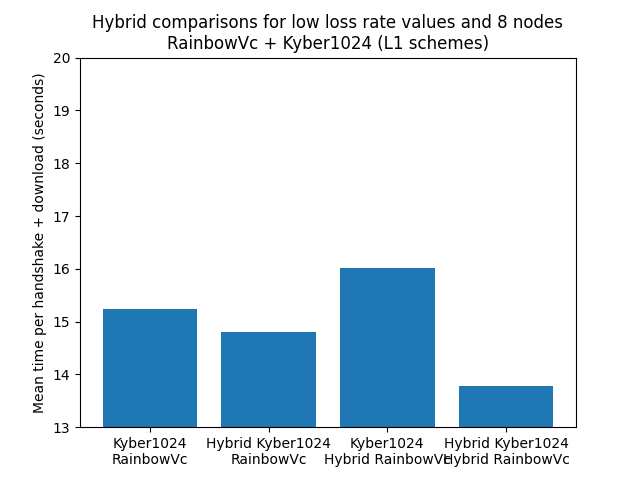
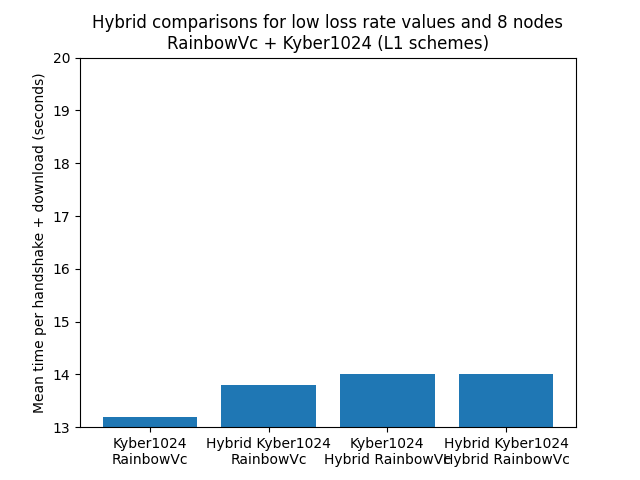
01/01 - new exploitations

diff --git a/computing_results.py b/computing_results.py
@@ -74,6 +74,7 @@ public_key_sizes = {  # In bytes
     "rainbowVc": 1705536
 }
 
+
 # Functions
 
 
@@ -140,6 +141,9 @@ def get_rtt_max_loss(data, nodes):
     return get_rtt(res), max_loss
 
 # Loss variations for L1
+
+
+rsa_dsa = get_experiments(make_filename("RSA", "DSA", new=True))
 
 
 def loss_graph(nodes, data, legend):
@@ -279,7 +283,7 @@ HrainVc_Hkyber1024 = get_experiments(make_filename("rainbowVc", "kyber1024", new
 
 hybrid_graph(rainVc_kyber1024, HrainVc_kyber1024, rainVc_Hkyber1024, HrainVc_Hkyber1024, "8",
              "Hybrid comparisons for low loss rate values and 8 nodes\nRainbowVc + Kyber1024 (L1 schemes)",
-             "figures/HYBRID_rainbowVc_kyber1024", "Kyber1024", "RainbowVc", all_same=True, bot=13, top=20)
+             "figures/HYBRID_rainbowVc_kyber1024", "Kyber1024", "RainbowVc", all_same=False, bot=13, top=20)
 
 # Picnic Comparisons
 
@@ -358,6 +362,8 @@ plt.xlabel("Signature size in Bytes")
 plt.ylabel("Mean time per handshake + download (seconds)")
 plt.title("Completion time evoluting with signature size for low loss rate, 8 nodes.")
 plt.grid()
+plt.hlines(y=get_rtt_min_loss(rsa_dsa, "8")[0], color="r", xmin=0, xmax=20)
+plt.text(get_rtt_min_loss(rsa_dsa, "8")[0] + 0.2, 10, 'Red line', ha='left', va='center')
 plt.savefig("figures/SIGNATURE_LOW_LOSS")
 plt.show()
 
@@ -407,10 +413,10 @@ plt.show()
 # LOW LOSS, 16 NODES, CIPHERTEXT SIZE
 
 x, y = [], []
-for exp in [(old_dil2_lightsaber, "lightsaber"), (dil2_saber, "saber"), (old_dil2_firesaber, "firesaber"),
-            (old_dil2_kyber512, "kyber512"), (old_dil2_ntru1, "ntru1"), (dil2_kyber768, "kyber768"),
+for exp in [(dil2_saber, "saber"),
+            (dil2_kyber768, "kyber768"),
             (dil2_kyber1024, "kyber1024"), (dil2_ntru5, "ntru5")]:
-    res = get_rtt_min_loss(exp[0], "16")
+    res = get_rtt_min_loss(exp[0], "36")
     print(res[1])
     plt.scatter(ciphertext_or_signature_sizes[exp[1]], res[0])
     plt.annotate(exp[1], (ciphertext_or_signature_sizes[exp[1]], res[0]))
@@ -418,7 +424,7 @@ for exp in [(old_dil2_lightsaber, "lightsaber"), (dil2_saber, "saber"), (old_dil
 plt.plot(x, y)
 plt.xlabel("Ciphertext size in Bytes")
 plt.ylabel("Mean time per handshake + download (seconds)")
-plt.title("Completion time evoluting with ciphertext size for low loss rate, 16 nodes.")
+plt.title("Completion time evoluting with ciphertext size for low loss rate, 36 nodes.")
 plt.grid()
 plt.savefig("figures/CIPHERTEXT_HIGH_NODES")
 plt.show()
@@ -427,12 +433,11 @@ plt.show()
 # LOW LOSS, 16 NODES, SIGNATURE SIZE
 
 x, y = [], []
-for exp in [(dil2_saber, "dil2"), (old_dil4_saber, "dil4"), (old_fal512_saber, "falcon512"),
-            (old_rainbowIa_saber, "rainbowIa"),
+for exp in [(dil2_saber, "dil2"),
             (picnic1_saber, "picnic3l1"), (picnic3_saber, "picnic3l3"), (picnic5_saber, "picnic3l5"),
             (fal1024_saber, "falcon1024")]:
     print(exp[1])
-    res = get_rtt_min_loss(exp[0], "16")
+    res = get_rtt_min_loss(exp[0], "36")
     print(res[1])
     plt.scatter(ciphertext_or_signature_sizes[exp[1]], res[0])
     plt.annotate(exp[1], (ciphertext_or_signature_sizes[exp[1]], res[0]))
@@ -440,7 +445,18 @@ for exp in [(dil2_saber, "dil2"), (old_dil4_saber, "dil4"), (old_fal512_saber, "
 plt.plot(x, y)
 plt.xlabel("Signature size in Bytes")
 plt.ylabel("Mean time per handshake + download (seconds)")
-plt.title("Completion time evoluting with signature size for low loss rate, 16 nodes.")
+plt.title("Completion time evoluting with signature size for low loss rate, 36 nodes.")
 plt.grid()
-plt.savefig("figures/SIGNATURE_LOW_LOSS")
+plt.savefig("figures/SIGNATURE_HIGH_NODES")
 plt.show()
+
+
+# More  Hybrid Graphs
+fal512_kyber1024 = get_experiments(make_filename("fal512", "kyber1024", new=True))
+Hfal512_kyber1024 = get_experiments(make_filename("fal512", "kyber1024", h_sig=True, new=True))
+fal512_Hkyber1024 = get_experiments(make_filename("fal512", "kyber1024", h_kex=True, new=True))
+Hfal512_Hkyber1024 = get_experiments(make_filename("fal512", "kyber1024", h_sig=True, h_kex=True, new=True))
+
+hybrid_graph(fal512_kyber1024, Hfal512_kyber1024, fal512_Hkyber1024, Hfal512_Hkyber1024, "8",
+             "Hybrid comparisons for low loss rate values and 8 nodes\nFalcon512 + Kyber1024 (L1xL5 schemes)",
+             "figures/HYBRID_fal512_kyber1024", "Kyber1024", "Falcon512", all_same=False, bot=0.15, top=0.2)
